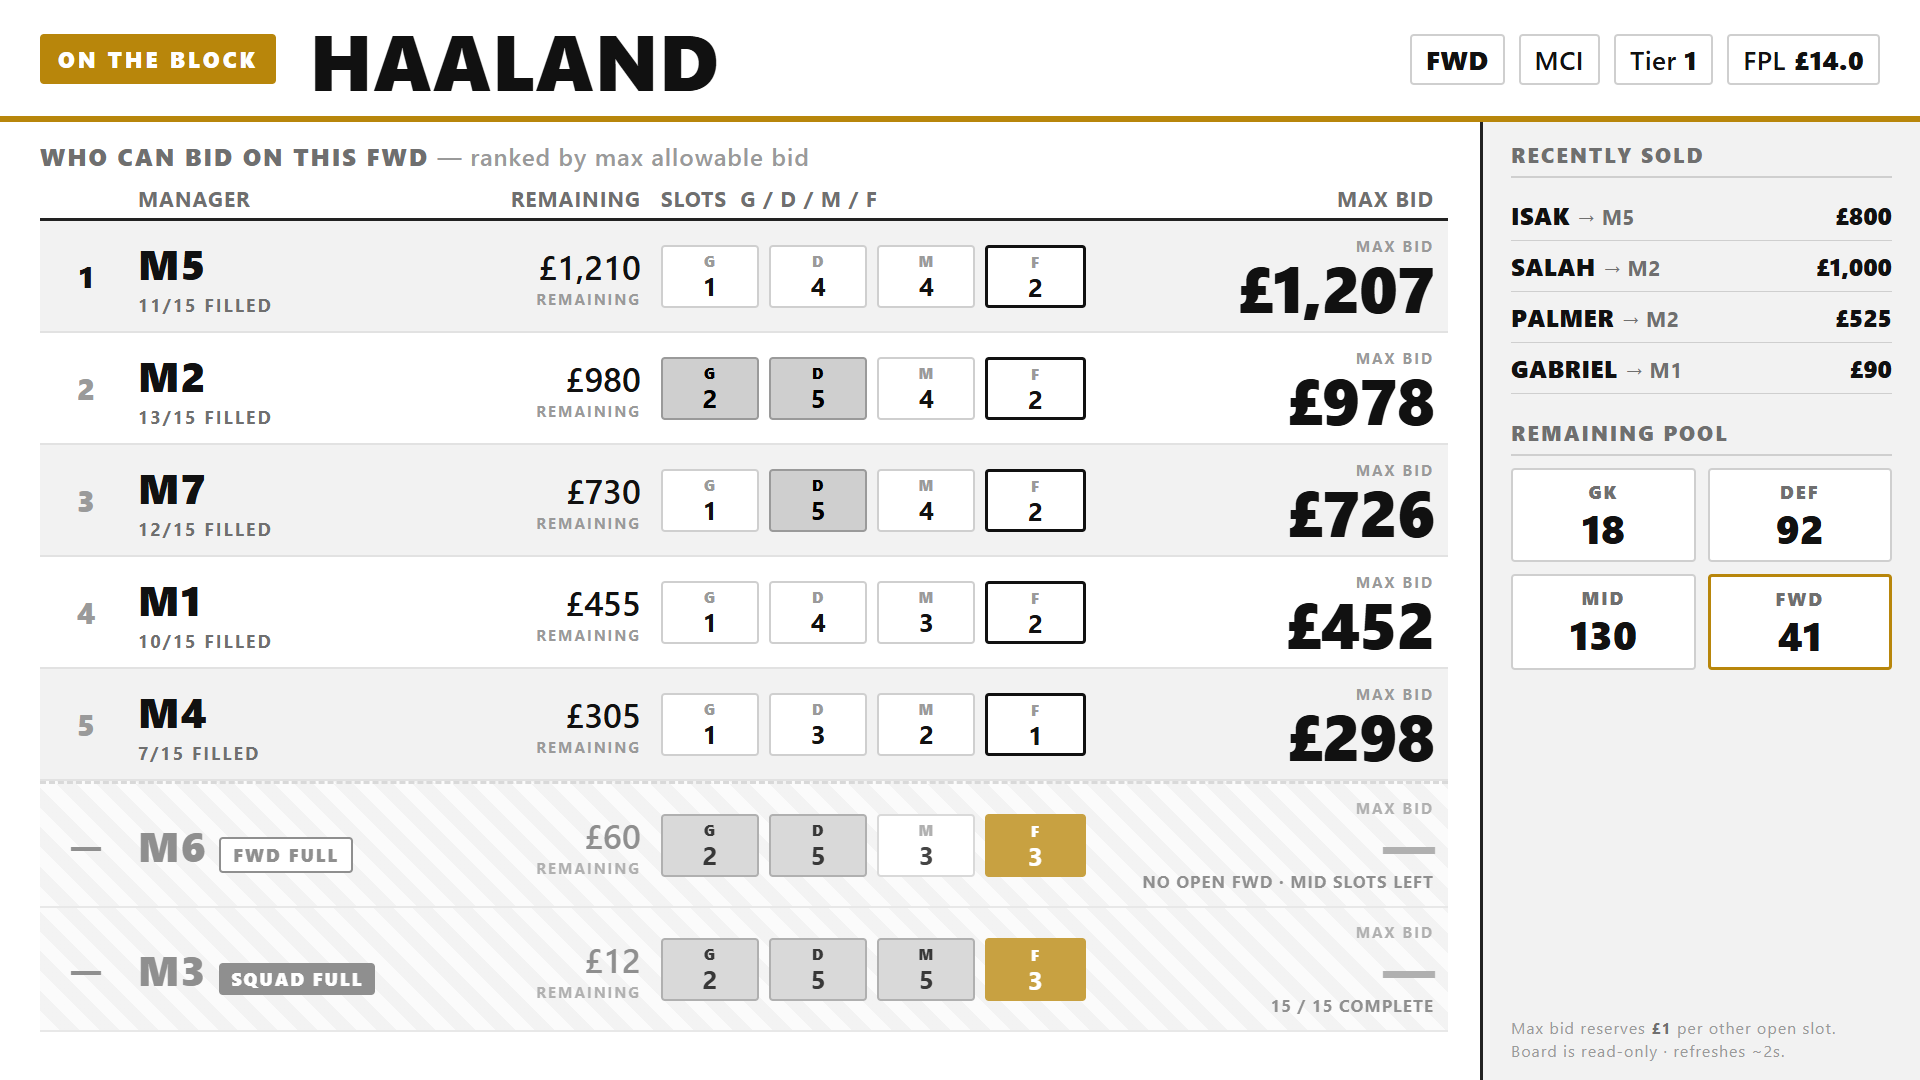
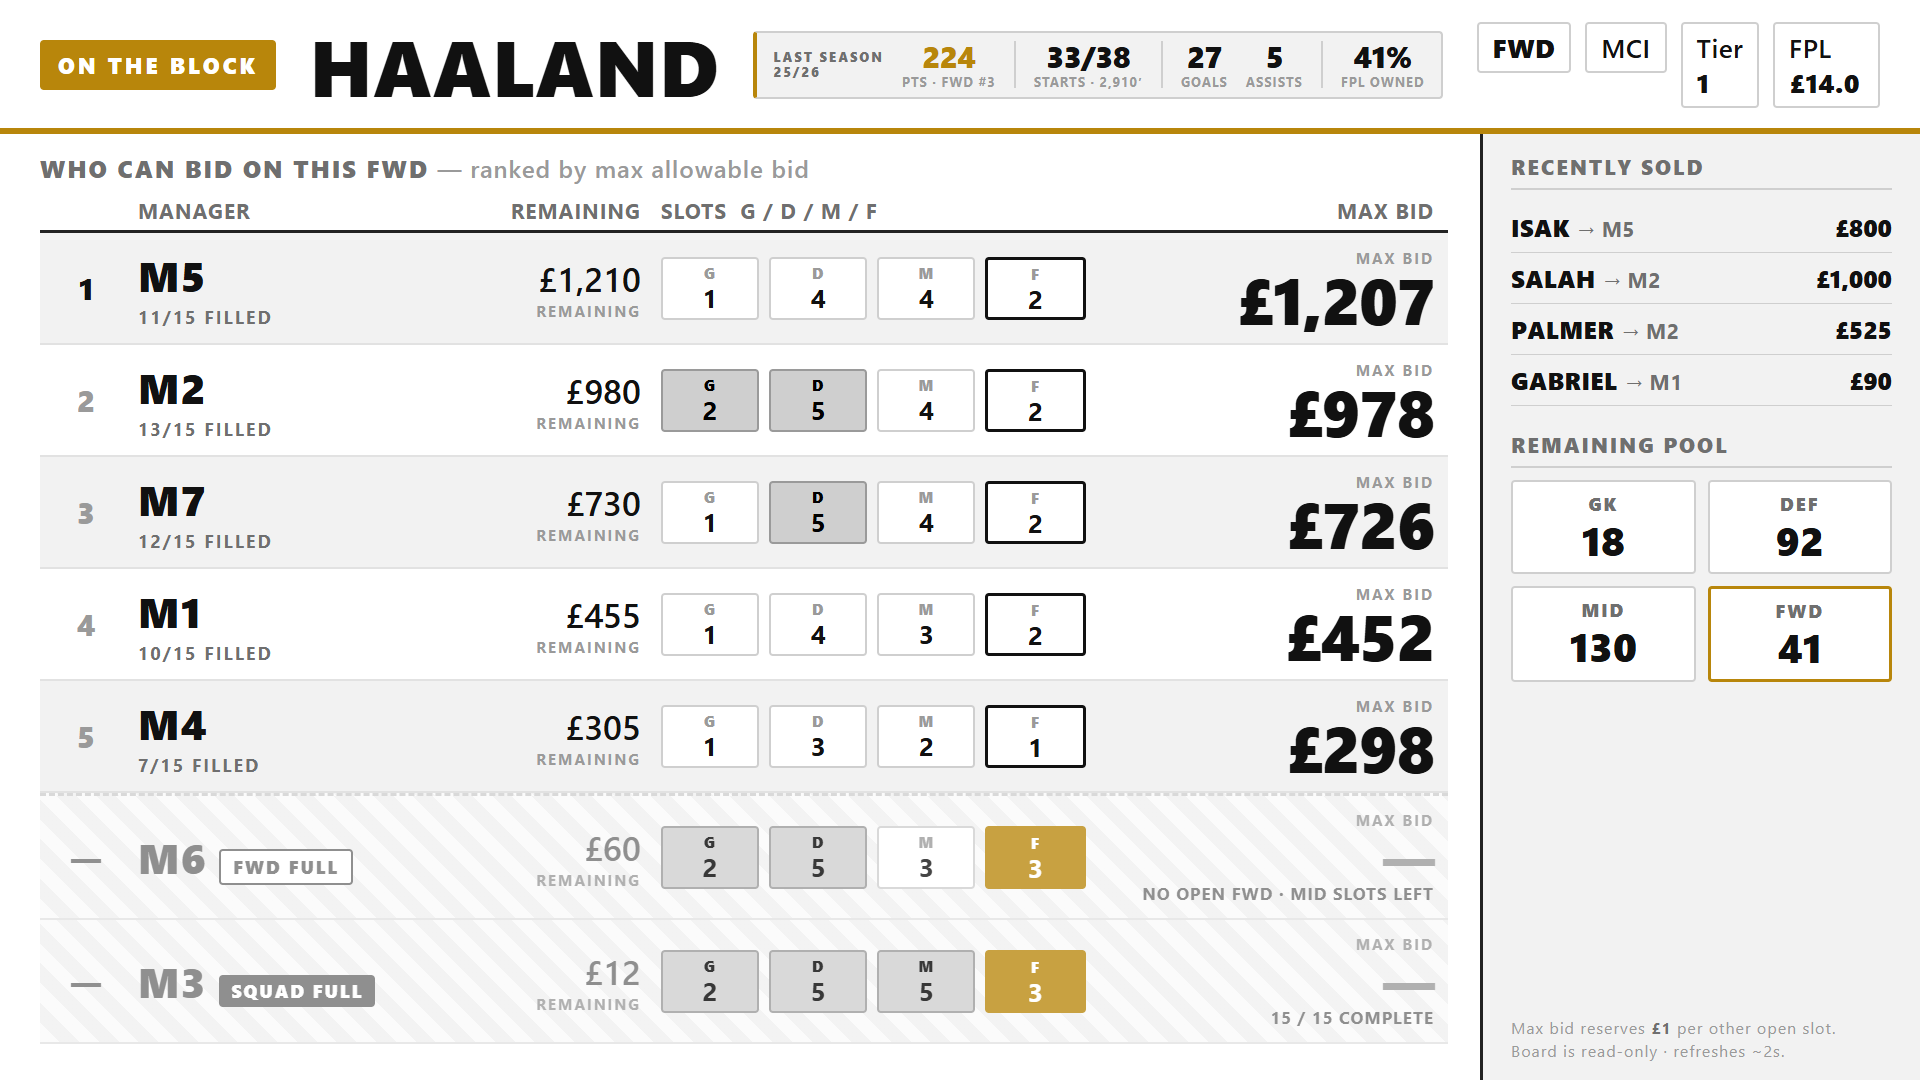
Discovery round: 8 managers, auction rules, player-data overlay, pre-Wed question list
- league config: 8 managers (budget stays $2000)
- DESIGN: no nomination (FPL price order), commissioner pause, easy player-data overlay
- DECISIONS: resolved updates + open items (bidding model crux, trades, formation)
- wireframes: add factual player-data overlay to leaderboard + table variants
- docs/DISCOVERY-QUESTIONS.md: structured pre-session decision list
- names kept generic (Organiser/Builder/Advisor) for the public repo

Claude-Session: https://claude.ai/code/session_013aKzAwbL1JzJaFKrkTVNmj

diff --git a/docs/wireframes/projector-leaderboard.html b/docs/wireframes/projector-leaderboard.html
@@ -75,6 +75,55 @@
   }
   .lot-meta .chip strong{font-weight:800;}
 
+  /* ---------- PLAYER-DATA OVERLAY (factual history, glanceable) ---------- */
+  .lot-stats{
+    border:2px solid var(--grey-3);
+    border-left:4px solid var(--accent);
+    border-radius:4px;
+    background:var(--grey-1);
+    padding:8px 16px 9px;
+    display:flex;
+    align-items:center;
+    gap:18px;
+    align-self:center;
+  }
+  .lot-stats .hdr{
+    font-size:13px;
+    font-weight:800;
+    letter-spacing:2px;
+    text-transform:uppercase;
+    color:var(--grey-5);
+    line-height:1.15;
+    white-space:nowrap;
+  }
+  .lot-stats .stat{
+    text-align:center;
+    line-height:1;
+    white-space:nowrap;
+  }
+  .lot-stats .stat .v{
+    display:block;
+    font-size:30px;
+    font-weight:800;
+    font-variant-numeric:tabular-nums;
+    letter-spacing:-.5px;
+  }
+  .lot-stats .stat.lead .v{color:var(--accent);}
+  .lot-stats .stat .k{
+    display:block;
+    font-size:13px;
+    font-weight:700;
+    letter-spacing:1px;
+    text-transform:uppercase;
+    color:var(--grey-4);
+    margin-top:4px;
+  }
+  .lot-stats .sep{
+    width:2px;
+    align-self:stretch;
+    background:var(--grey-3);
+  }
+
   /* ---------- BODY: leaderboard (main) + side rail ---------- */
   .body{
     flex:1 1 auto;
@@ -328,6 +377,19 @@
   <header class="lot">
     <span class="lot-flag">ON THE BLOCK</span>
     <span class="lot-name">HAALAND</span>
+
+    <div class="lot-stats">
+      <span class="hdr">Last season<br>25/26</span>
+      <div class="stat lead"><span class="v">224</span><span class="k">pts · FWD #3</span></div>
+      <div class="sep"></div>
+      <div class="stat"><span class="v">33/38</span><span class="k">starts · 2,910′</span></div>
+      <div class="sep"></div>
+      <div class="stat"><span class="v">27</span><span class="k">goals</span></div>
+      <div class="stat"><span class="v">5</span><span class="k">assists</span></div>
+      <div class="sep"></div>
+      <div class="stat"><span class="v">41%</span><span class="k">FPL owned</span></div>
+    </div>
+
     <div class="lot-meta">
       <span class="chip"><strong>FWD</strong></span>
       <span class="chip">MCI</span>

diff --git a/docs/wireframes/projector-table.html b/docs/wireframes/projector-table.html
@@ -51,6 +51,27 @@
     font-size:30px;font-weight:500;color:#dcdcdc;letter-spacing:1px;
   }
   .lot .meta strong{color:#fff;font-weight:700}
+  /* player-data overlay: factual past history, glanceable */
+  .lotstats{
+    display:flex;align-items:stretch;
+    border:2px solid #555;
+    background:rgba(255,255,255,0.04);
+  }
+  .lotstats .cell{
+    display:flex;flex-direction:column;justify-content:center;
+    padding:6px 16px;
+    border-left:1px solid #555;
+    white-space:nowrap;
+  }
+  .lotstats .cell:first-child{border-left:none}
+  .lotstats .k{
+    font-size:12px;letter-spacing:2px;font-weight:700;color:#9a9a9a;
+    text-transform:uppercase;margin-bottom:3px;
+  }
+  .lotstats .v{font-size:24px;font-weight:700;color:#fff;line-height:1}
+  .lotstats .v .sub{font-size:15px;font-weight:500;color:#bdbdbd;margin-left:6px}
+  .lotstats .cell.hero{background:rgba(255,255,255,0.07)}
+
   .lot .right{
     margin-left:auto;text-align:right;
   }
@@ -176,6 +197,31 @@
     <span class="tag">ON THE BLOCK</span>
     <span class="name">HAALAND</span>
     <span class="meta"><strong>FWD</strong> · MCI · Tier 1 · FPL <strong>£14.0</strong></span>
+
+    <!-- player-data overlay: factual 25/26 history only — no projections -->
+    <div class="lotstats">
+      <div class="cell hero">
+        <span class="k">25/26 Pts</span>
+        <span class="v">224<span class="sub">FWD #3</span></span>
+      </div>
+      <div class="cell">
+        <span class="k">Starts</span>
+        <span class="v">33/38<span class="sub">2,910 min</span></span>
+      </div>
+      <div class="cell">
+        <span class="k">Goals</span>
+        <span class="v">27</span>
+      </div>
+      <div class="cell">
+        <span class="k">Assists</span>
+        <span class="v">5</span>
+      </div>
+      <div class="cell">
+        <span class="k">FPL Owned</span>
+        <span class="v">41%</span>
+      </div>
+    </div>
+
     <span class="right">
       <div class="lbl">MAX BID COLUMN SHOWS</div>
       <div class="val">most each manager can spend on this FWD</div>

diff --git a/docs/DISCOVERY-QUESTIONS.md b/docs/DISCOVERY-QUESTIONS.md
@@ -1,0 +1,64 @@
+# Pre-Wednesday Discovery — decisions to lock
+
+> The "list of qs" to work through before the Wed session, so the meeting is for deciding, not discovering. Built from Builder's auction notes + the commissioner thread + the design so far. **CONFIRMED** = agreed, ratify with the group. **OPEN** = decide. Each open item has options + a lean.
+>
+> v1 is the **auction only**. The season runs on the official Draft FPL site (all agreed). Anything season-side (scoring, waivers, keepers, FAAB) is captured at the bottom for completeness but is out of the build.
+
+## 1. Auction format (mostly CONFIRMED — ratify)
+
+1.1 **Managers: 8.** CONFIRMED. → Open sub-q: who are the 8? (roster still being recruited)
+1.2 **Budget: $2000 each.** CONFIRMED (supersedes the "$200" note).
+1.3 **Squad: 15** — 2 GK / 5 DEF / 5 MID / 3 FWD. CONFIRMED.
+1.4 **Ownership: exclusive** (one manager per player, no multipick). CONFIRMED.
+1.5 **Min bid: $1.** CONFIRMED.
+1.6 **Max bid = remaining budget − $1 per other empty slot**, and only if you have an open slot for that position. CONFIRMED (Builder's notes match the design exactly).
+
+## 2. Lot order (CONFIRMED)
+
+2.1 **No nomination phase.** Players come up in **FPL price order, most expensive first** (Como convention).
+2.2 **Randomise within tier?** Sometimes done historically. OPEN: always price-order, or shuffle within each price tier? Lean: support both, commissioner toggles per session.
+
+## 3. Bidding model — THE CRUX (OPEN)
+
+The one decision everything else hangs off. Two coherent options:
+
+- **A) Commissioner-entry (verbal room bidding).** Room bids out loud; commissioner records winner + price. No per-player login, no timers, no realtime infra. Simplest to build and rock-solid for an in-person auction. *Lean for a v1 shipping by Aug 2.*
+- **B) Live login bidding.** Each manager logs in and places their own bids in-app, with timers (Builder's notes: 30s bid timer, 10s reset per bid). Needs per-player auth, realtime updates, and handles disconnects/contention. Much bigger build; closer to a "real" auction app.
+
+→ **Decide A or B.** If B, then 3.x below all apply; if A, most of them disappear.
+3.1 (B only) Bid timer length (notes: 30s) and reset-on-bid (notes: 10s)?
+3.2 (B only) Login method — how do 8 people authenticate simply?
+3.3 (B only) What happens on disconnect / missed timer?
+
+## 4. Pause (CONFIRMED yes — detail OPEN)
+
+4.1 Pause is wanted for trades, discussion, breaks. CONFIRMED.
+4.2 OPEN: per-manager pause allowance (notes: 2 each × 1 min) + unlimited commissioner pause — adopt as-is, or simpler "commissioner pauses on request"? Lean: commissioner-controlled pause for v1; formal per-manager allowance only if bidding is timed (model B).
+
+## 5. Trades during the auction (OPEN — scope)
+
+5.1 Organiser wants in-auction trades: swap players and/or salary, and "offer money for ongoing auction." OPEN: in scope for v1, or fast-follow? Lean: **fast-follow** — it adds real complexity (multi-party offers, salary accounting mid-draft) and risks the Aug 2 date. Capture the rules now, build after.
+
+## 6. Formation & pitch view (OPEN)
+
+6.1 "Players must bid with formation" + a pitch view. OPEN: is a formation/pitch view needed *during* the auction, or only once squads are set / on the official site? Lean: squads are just slot counts during the auction (our board already shows G/D/M/F fill); a pitch view is nice-to-have, not v1-critical.
+
+## 7. Player-data overlay (CONFIRMED scope)
+
+7.1 Show **easy/factual FPL history** on the lot: club, position, price, last-season points, last-season starts/minutes, ownership. CONFIRMED (in the wireframes).
+7.2 **No AI "chance of starting" / injury-prediction.** CONFIRMED — research stays with each bidder (Advisor's position; Organiser dissents, flag for group). OPEN if the group overrides: would only ever be a factual injury *status* flag, never a model.
+
+## 8. Logistics (OPEN)
+
+8.1 Where does it run on the night? (self-host vs a shared URL for the room)
+8.2 Official Draft FPL league launches ~end July — does that gate anything (player IDs/prices final)?
+8.3 Auction date Aug 2 — firm?
+
+## Season-side — OUT of the build, captured for the group
+
+These run on the official Draft FPL site, but the group should still agree them:
+- **Scoring:** draft.premierleague scoring (confirm).
+- **Rebids:** how many? (notes imply ≥1) — and salaries are **kept** across rebids (price paid reduces next budget).
+- **Keepers:** ~5 retained for the season (confirm number).
+- **FAAB:** $100 season waiver budget; **waivers reset 1 day after the last game of the gameweek.**
+- **Waiver system:** official Draft FPL waivers, or our own rules?

diff --git a/docs/DECISIONS-TO-CONFIRM.md b/docs/DECISIONS-TO-CONFIRM.md
@@ -8,10 +8,19 @@
 - **Draft night:** in person → projector/big-screen board view **in v1**.
 - **Repo:** public GitHub `github.com/miloli-lab/epl-como-fantasy-26-27` (the miloli-lab pattern), **MIT**. Auth via `gh` (no PAT needed).
 - **Auction date:** **Aug 2, 2026** (~5 weeks runway from today).
+- **Managers:** **8** (Organiser: "8 is the right number"); roster still being recruited.
+- **Budget:** **$2000** (overrides Builder's "$200" note in the commissioner thread).
+- **Season:** runs on the **official Draft FPL site**, not our app — all three agree. Our app is auction-only.
+- **Nomination:** none. Lot order = FPL price descending (Como convention), with optional randomise-within-tier.
+- **Pause:** yes. Commissioner can pause for trades, discussion, or a break.
+- **Player-data overlay:** easy/factual FPL history on the lot (club, price, last-season points + starts). AI start-prediction is OUT (contested; research stays with bidders).
 
 ## Still open
 
-- **A1** — real 26/27 roster + count (kept out of the public repo; goes in local config). Confirm count + who.
+- **Bidding model (the crux):** commissioner-enters-sold-price (no per-player auth, simplest) vs live per-player **login bidding** (Builder's notes: 30s bid timer, 10s reset, login so you only bid as yourself). This one decision drives auth, timers, and whether we need realtime infra. UNDECIDED.
+- **Trades during the auction** (salary + players) — wanted by Organiser; net-new scope; depends partly on bidding model.
+- **Formation-bound bids + pitch view** — in Builder's notes; not yet designed.
+- **A1** — real 26/27 roster + names (count = 8 now set; kept out of the public repo, goes in local config). Confirm who.
 - **A6 / Future** — rebid count + rule, when that phase starts.
 - **C1** — when to freeze the player pool (FPL prices final in preseason).
 - **D1** — commissioner identity (who drives on the night).

diff --git a/docs/DESIGN.md b/docs/DESIGN.md
@@ -28,8 +28,10 @@ All three render the same `/api/state` (polled ~2s); the commissioner panel addi
    repeat until every squad is full (15)
 ```
 
-- Nomination is **verbal**; the app doesn't track whose turn it is. The commissioner just sets the lot.
-- The commissioner is the **single writer** — no bid contention to resolve.
+- **No nomination phase.** Lot order is the pool sorted by **FPL price, most expensive first** (the long-standing Como convention), with an optional **randomise-within-tier** shuffle. The commissioner advances through the queue; search/jump to skip.
+- **Pause** is a first-class control: the commissioner can pause for trades, discussion, or a break, and every surface shows a clear PAUSED state.
+- The commissioner is the **single writer**, so there is no bid contention to resolve.
+- **Player-data overlay (easy/factual only):** the on-the-block player shows readily-available FPL history (club, position, price, last-season points, last-season starts/minutes). No AI start-prediction; pre-auction research stays with each bidder.
 
 ## The max-bid rule (the one bit of real logic)
 